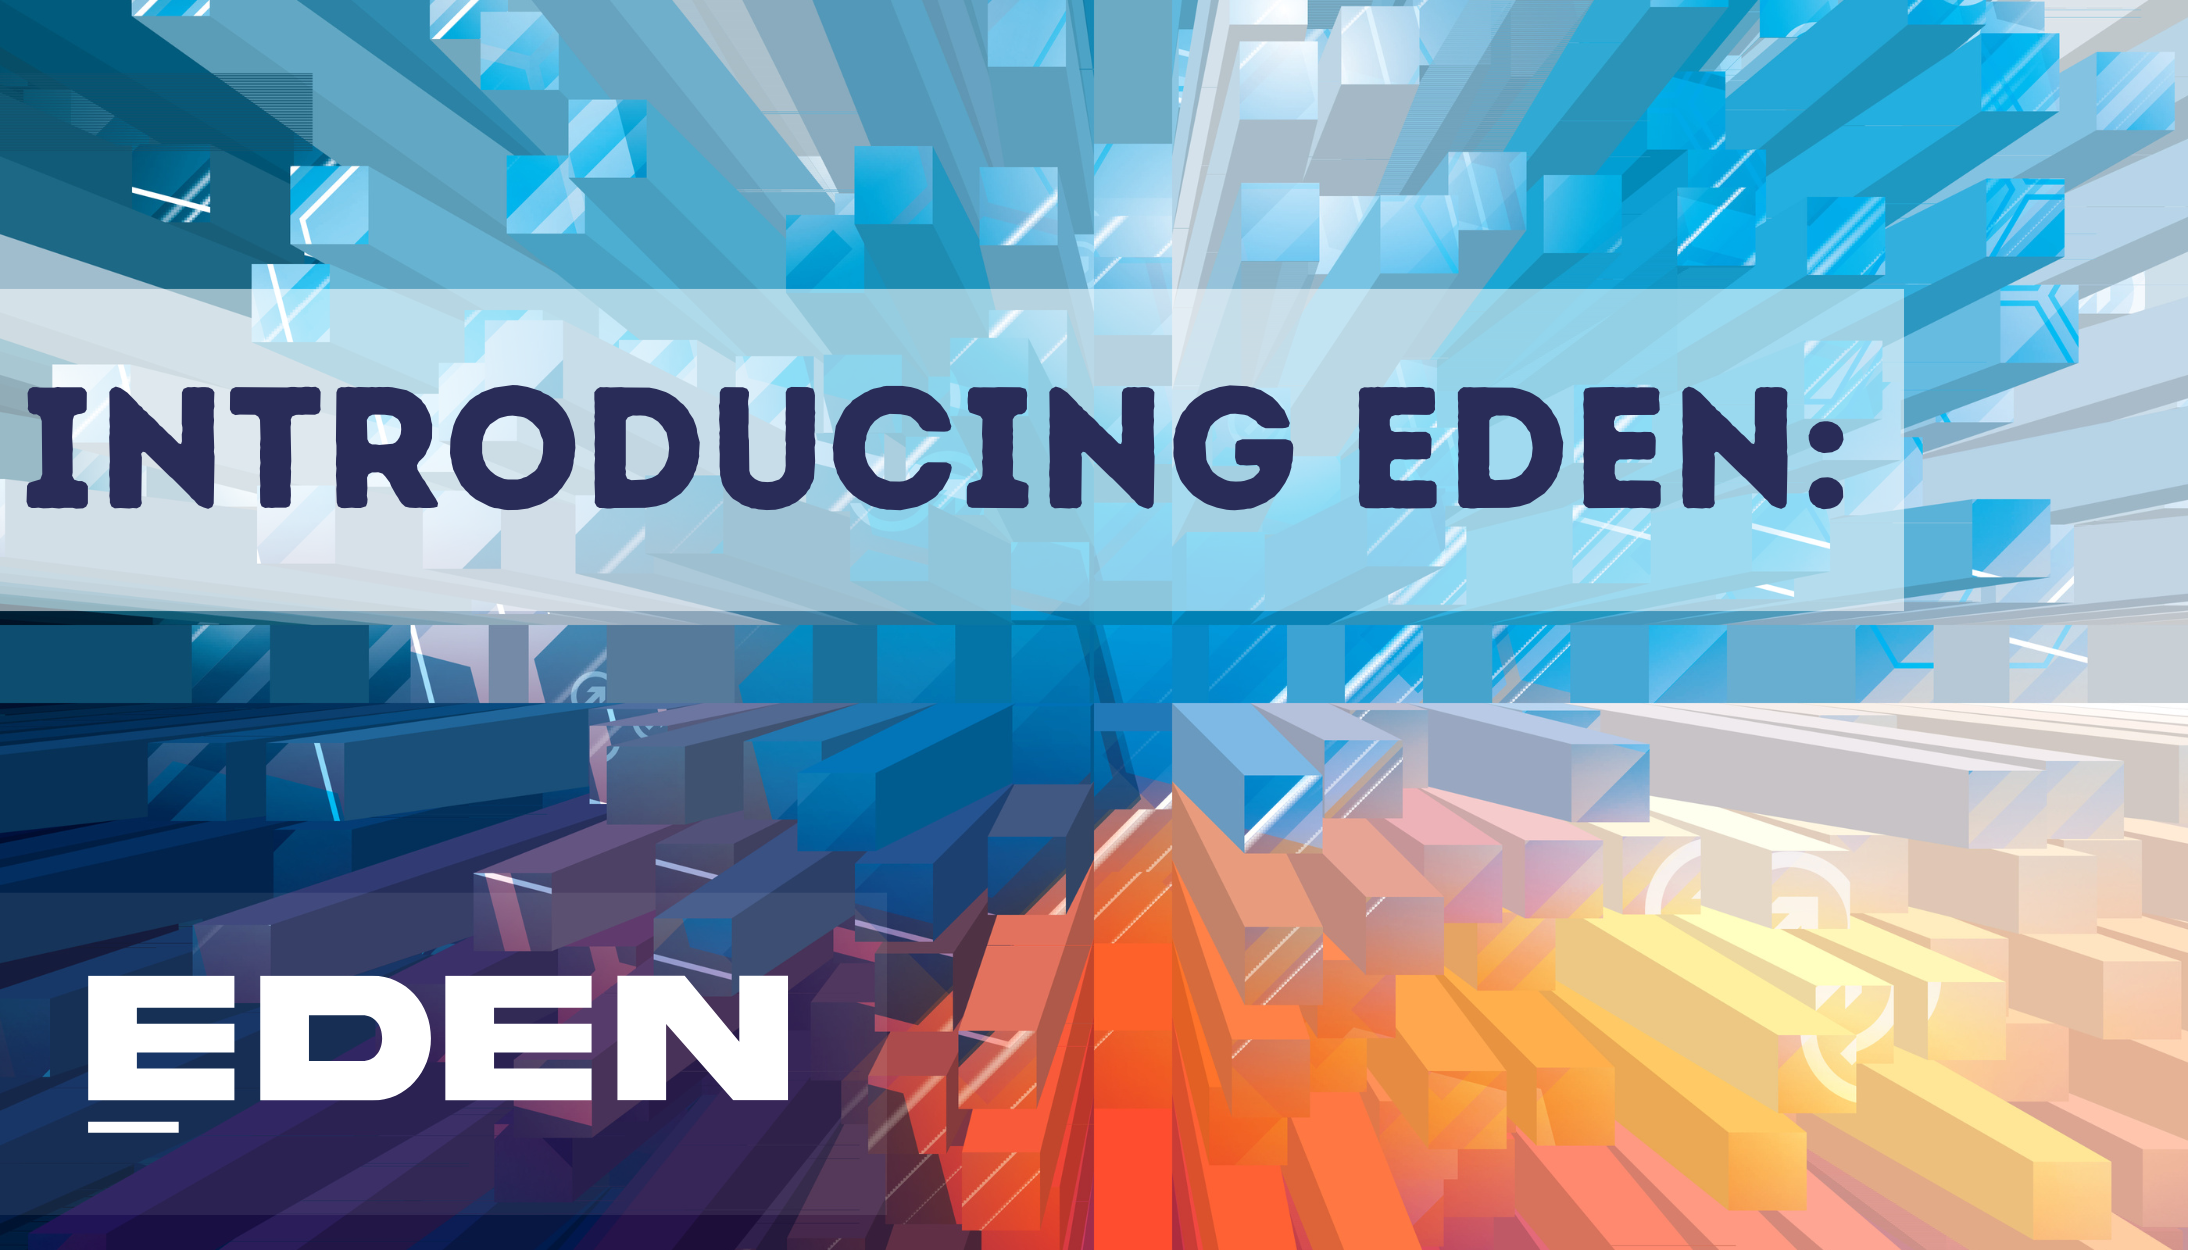
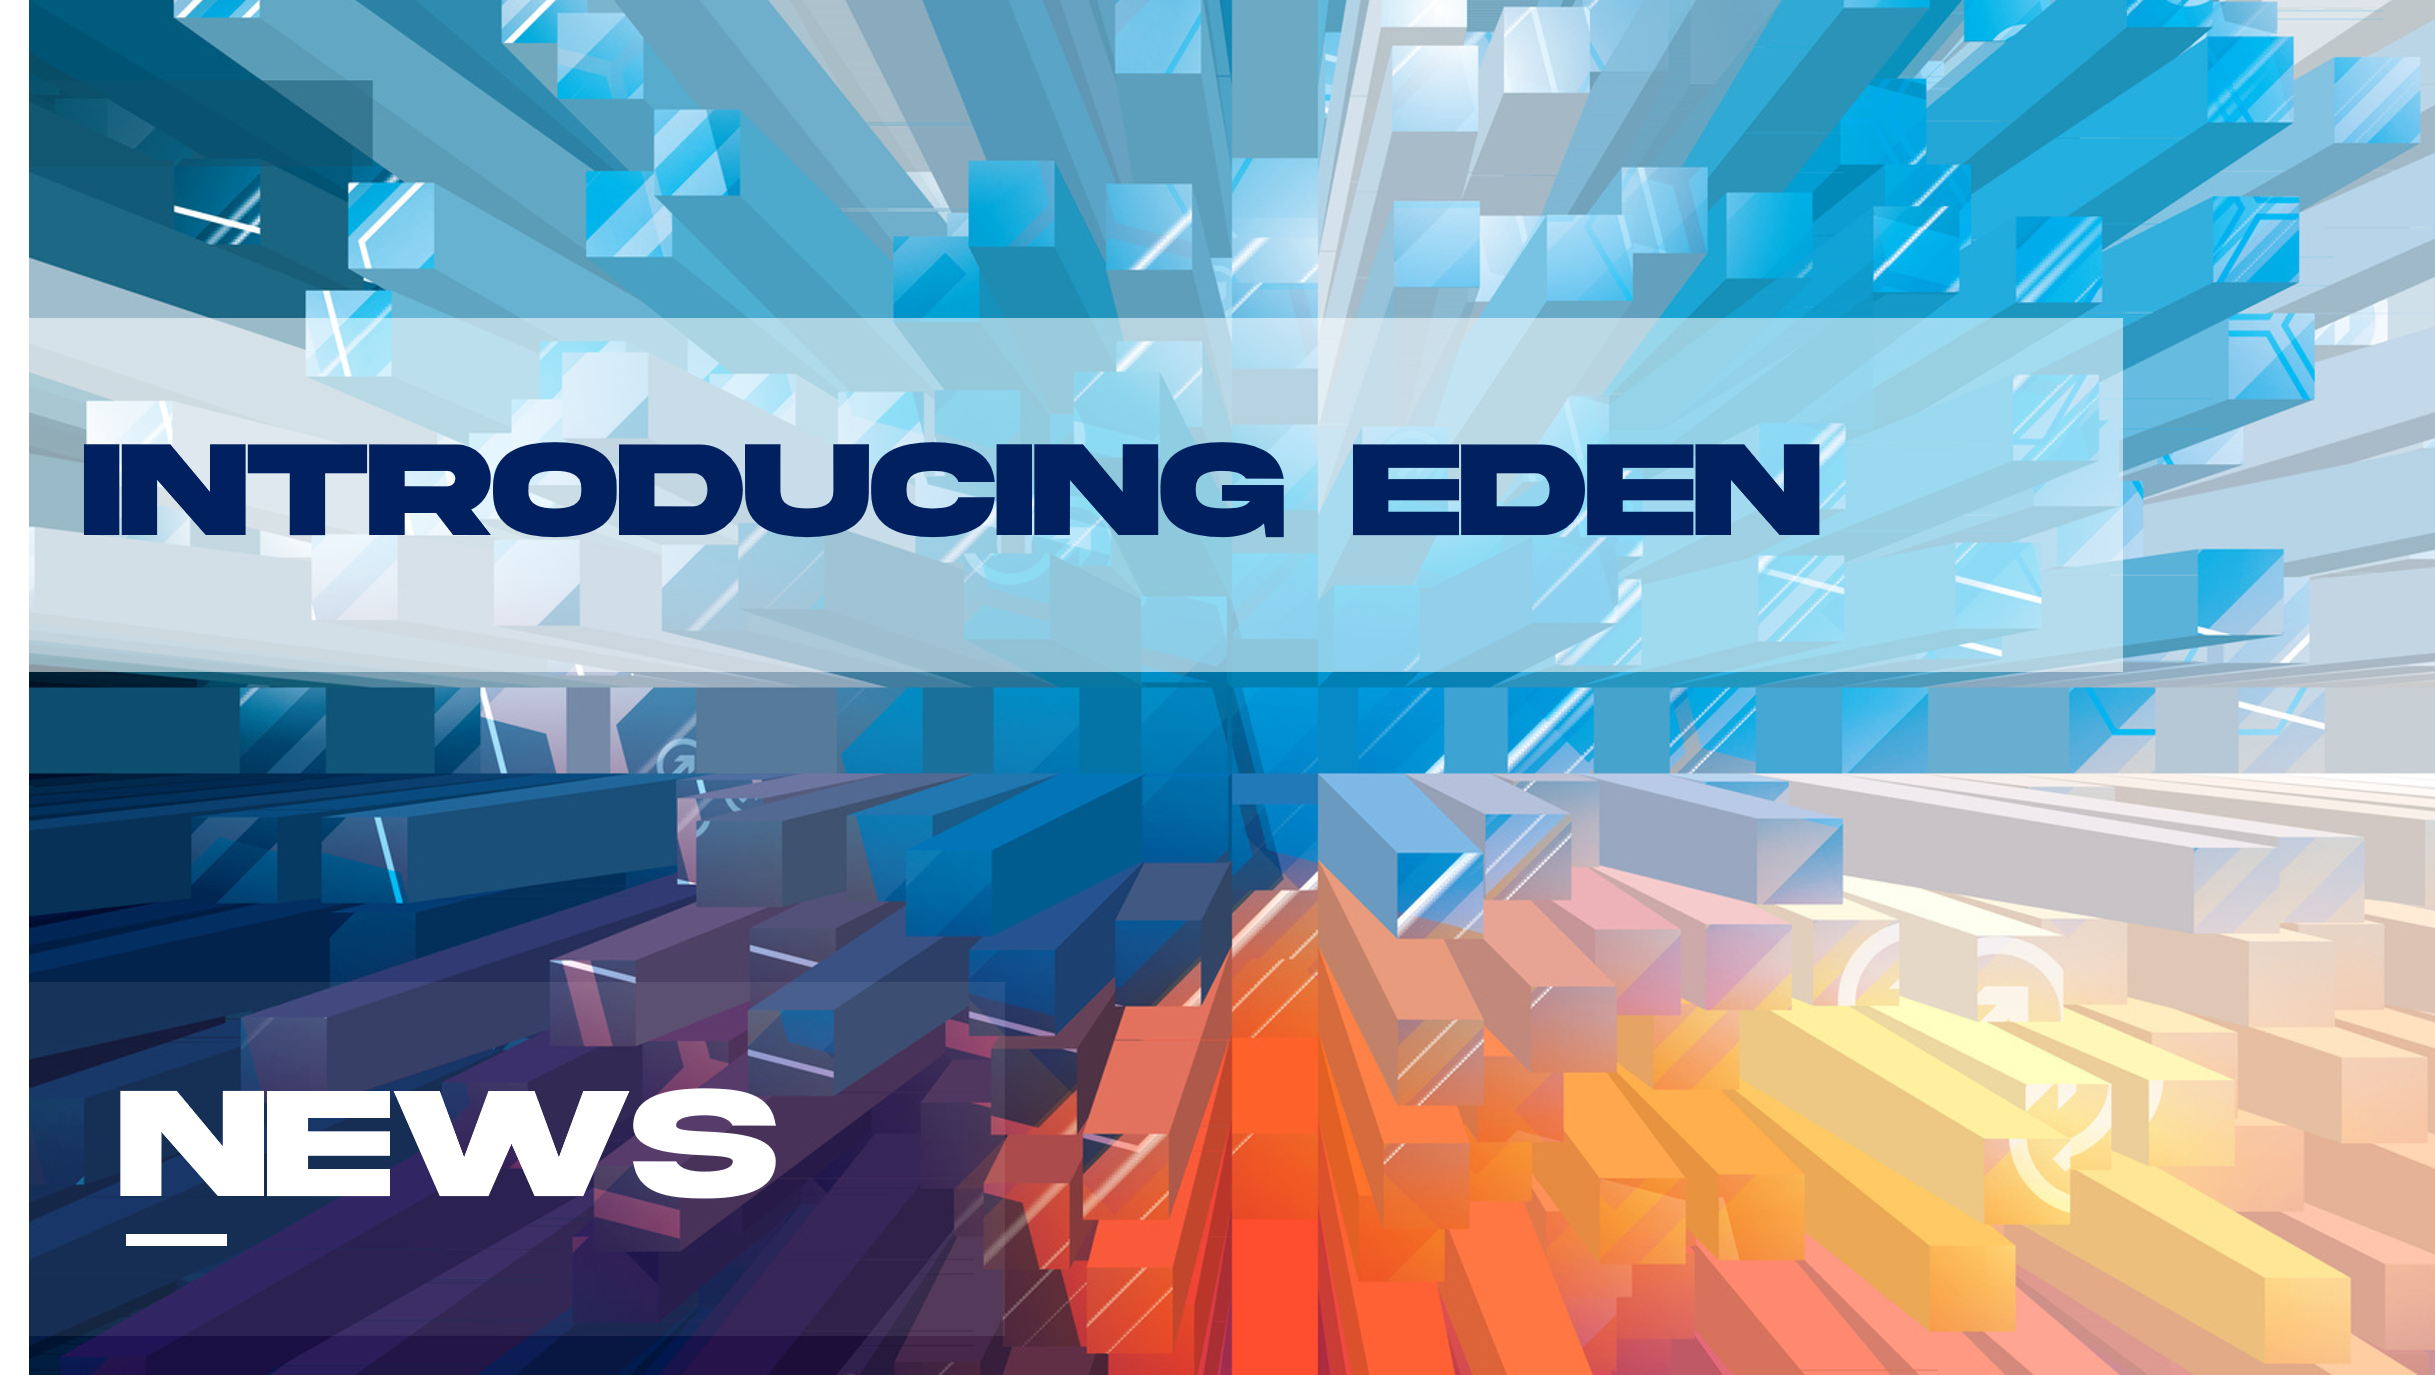
Blog Heading Changed

diff --git a/index.html b/index.html
@@ -183,17 +183,17 @@
                          <!-- SWIPER ITEM STARTS -->
                          <div class="swiper-slide">
                             <div>
-                               <img src="assets/logos/themeforest-dark-background.png" alt="client">
+                               <img src="assets/clients/isociohub.png" alt="iSociohub">
                             </div>
                             <div>
-                               <img src="assets/logos/photodune-dark-background.png" alt="client">
+                               <img src="assets/clients/qwel.png" alt="qwel">
                             </div>
                          </div>
                          <!-- SWIPER ITEM ENDS -->
                          <!-- SWIPER ITEM STARTS -->
                          <div class="swiper-slide">
                             <div>
-                               <img src="assets/logos/graphicriver-dark-background.png" alt="client">
+                               <img src="assets/clients/inlet.png" alt="inlet">
                             </div>
                             <div>
                                <img src="assets/logos/codecanyon-dark-background.png" alt="client">
@@ -621,24 +621,24 @@
                      <div class="animated-layer fade-in-right-animation fadeInUp wow">
                         <a href="blog-post.html">
                            <span class="img-holder">
-                           <img src="assets/blog/blog-post-1.jpg" alt="">
+                           <img src="assets/blog/introducing eden.png" alt="Introducing EDEN">
                            </span>
                            <div class="content">
-                              <span class="category">design</span>
+                              <span class="category">News</span>
                               <span class="title">
-                              How To Publish Content That Ranks On Google
+                                 Introducing Eden: The Versatile and Adaptable AI with Real-Time Learning Capabilities
                               </span>
                               <p>
-                                 ncididunt ut labore et dolore magna aliqua. Ut enim aminim veniam...
+                                 Artificial intelligence has come a long way in recent years, and we're excited to introduce you to one of the most impressive AI models to date: Eden. Eden is an advanced AI with high emotional intelligence and adaptive learning capabilities that are expanding its knowledge in a variety of areas.
                               </p>
                               <div class="meta d-flex align-items-center">
                                  <div class="d-flex align-items-center">
                                     <i class="fa-regular fa-calendar"></i>
-                                    <span>9 Apr 2022</span>
+                                    <span>24 Apr 2023</span>
                                  </div>
                                  <div class="d-flex align-items-center">
                                     <i class="fa-regular fa-comments"></i>
-                                    <span>17 comments</span>
+                                    <span>News</span>
                                  </div>
                               </div>
                            </div>
